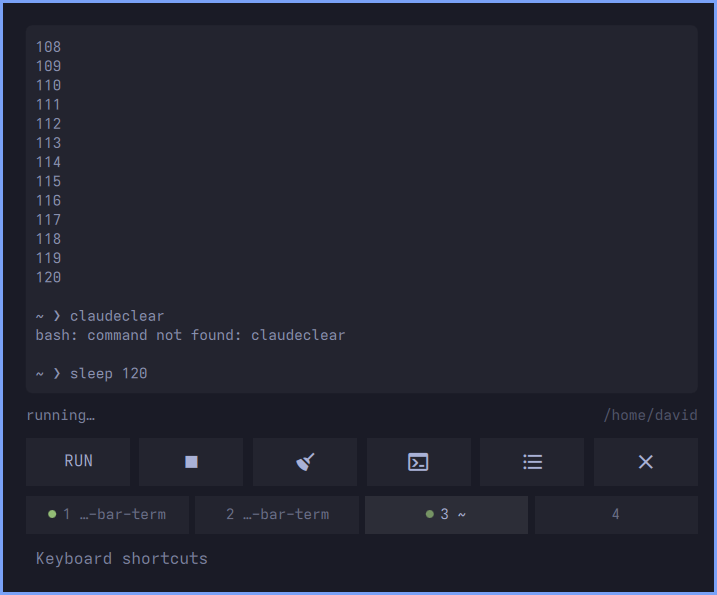
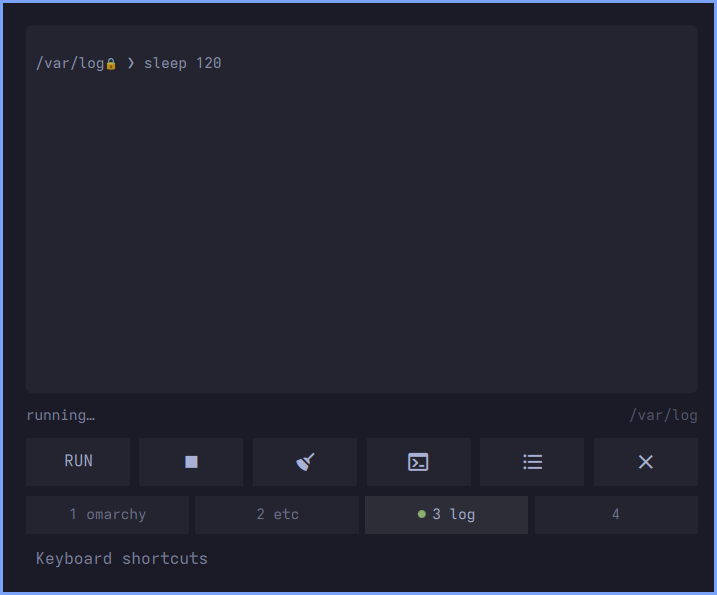
Retake the screenshots where no home path appears
The sessions on camera were sitting in /home/david, so the pad's status line,
the tab labels and every row of the session picker carried the local username
into a page meant to be public. The GitHub identity is deliberately separate
from that, and a screenshot is a poor place to join them up.

The shots are taken with the sessions in /usr/share/omarchy, /etc and /var/log
instead, which also demonstrates the thing better: path completion on
/usr/share/omarchy/th is a more useful picture than a git log of this repo.

The description leads with tmux in the manifest, on the repo, in the hero and
on the card: it is the word someone scanning a list is looking for.

Claude-Session: https://claude.ai/code/session_01NsuTX3xQbZ1pzCFMGiucjP

diff --git a/README.md b/README.md
@@ -12,9 +12,9 @@
   <sub>As it opens · choosing which session a tab shows · something running in another tab</sub>
 </p>
 
-A command line in the Omarchy bar, for the things not worth opening a window for: a
-`git log`, a `df -h`, a `systemctl status`. Behind each tab is a tmux session, so it
-behaves like the terminal it is. `cd` sticks, the environment stays, and the session
+tmux sessions in the Omarchy bar, for the things not worth opening a window for: a
+`git log`, a `df -h`, a `systemctl status`. Each tab is a real session, so it behaves like
+the terminal it is. `cd` sticks, the environment stays, and the session
 outlives the widget: restart the shell, or log back in tomorrow, and your tabs are where
 you left them.
 
